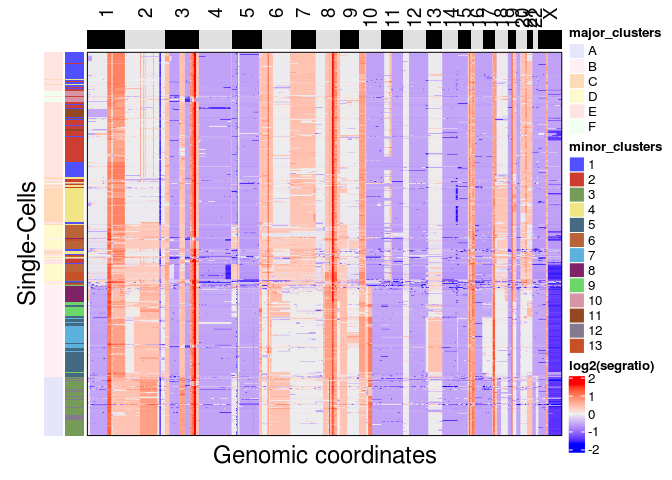
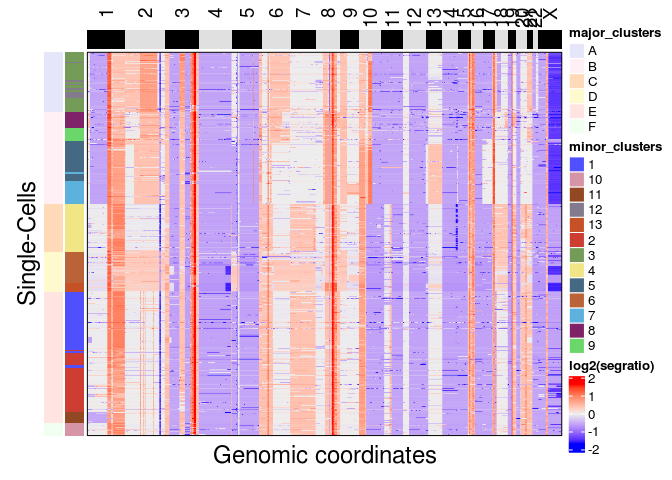
vignette update

Changed region(s): [[0.0625, 0.0938, 0.9062, 0.9062]]

diff --git a/copykit_workflow.md b/copykit_workflow.md
@@ -78,6 +78,7 @@ breast_tumor
     ## colData names(4): sample total_reads reads_kept pcr_duplicates
     ## reducedDimNames(0):
     ## spikeNames(0):
+    ## altExpNames(0):
     ## rowRanges has: 12167 ranges
     ## Phylo:
 
@@ -130,23 +131,47 @@ regarding the data
   - Total reads: Total read counts for each cell.
   - PCR duplicates: Percentage of reads that are PCR duplicates for each
     cell.
+  - Breakpoint count: Counts the number of breakpoints per chromosome
+    and sums it up for every cell.
 
 All the information is stored as metadata and can be accessed with
 `SummarizedExperiment::colData()`.
 
 ``` r
-copykit::runMetrics(breast_tumor)
+breast_tumor <- copykit::runMetrics(breast_tumor)
 ```
 
     ## Calculating RMSE
 
     ## Using 48 cores.
 
+    ## Counting breakpoints.
+
     ## Done.
 
-![](copykit_workflow_files/figure-gfm/unnamed-chunk-2-1.png)<!-- -->
+After the information is calculated and saved in the scCNA object it can
+be visualized with `copykit::plotMetrics()`
 
-You can use the metrics in the metadata to filter the cells if desired.
+``` r
+copykit::plotMetrics(breast_tumor)
+```
+
+![](copykit_workflow_files/figure-gfm/plot_metrics-1.png)<!-- -->
+
+`copykit::plotMetrics()` can color information regarding any column
+available in the metadata.
+
+``` r
+copykit::plotMetrics(breast_tumor,
+                     label = "rmse")
+```
+
+    ## Coloring by: rmse
+
+![](copykit_workflow_files/figure-gfm/plot_metrics_label-1.png)<!-- -->
+
+You can also use the metrics in the metadata to filter the cells if
+desired.
 
 ## Filtering cells.
 
@@ -179,7 +204,7 @@ breast_tumor <- copykit::filterCells(breast_tumor,
     ## Your dataset has: 1442 Cells. Plotting heatmap may take a long time with large number of cells.
     ##  Set number of threads with n_threads for parallel processing if possible to speed up.
 
-    ## Using 20 cores.
+    ## Using 40 cores.
 
     ## Loading required namespace: Cairo
 
@@ -194,7 +219,7 @@ The information is stored as metadata and can be accessed with
 head(SummarizedExperiment::colData(breast_tumor))
 ```
 
-    ## DataFrame with 6 rows and 5 columns
+    ## DataFrame with 6 rows and 8 columns
     ##                                              sample total_reads reads_kept
     ##                                         <character>   <integer>  <integer>
     ## tn20_2_s2_c10_s394_r1_001 tn20_2_s2_c10_s394_r1_001     1182995    1084587
@@ -203,14 +228,22 @@ head(SummarizedExperiment::colData(breast_tumor))
     ## tn20_2_s2_c13_s397_r1_001 tn20_2_s2_c13_s397_r1_001     1470505    1335844
     ## tn20_2_s2_c14_s398_r1_001 tn20_2_s2_c14_s398_r1_001     1297807    1182345
     ## tn20_2_s2_c19_s403_r1_001 tn20_2_s2_c19_s403_r1_001     1066632     978170
-    ##                           pcr_duplicates    filtered
-    ##                                <numeric> <character>
-    ## tn20_2_s2_c10_s394_r1_001           0.08        kept
-    ## tn20_2_s2_c11_s395_r1_001           0.08        kept
-    ## tn20_2_s2_c12_s396_r1_001           0.08     removed
-    ## tn20_2_s2_c13_s397_r1_001           0.09     removed
-    ## tn20_2_s2_c14_s398_r1_001           0.09     removed
-    ## tn20_2_s2_c19_s403_r1_001           0.08        kept
+    ##                           pcr_duplicates              rmse breakpoint_count
+    ##                                <numeric>         <numeric>        <numeric>
+    ## tn20_2_s2_c10_s394_r1_001           0.08 0.216382837301687               62
+    ## tn20_2_s2_c11_s395_r1_001           0.08 0.294904041482104               74
+    ## tn20_2_s2_c12_s396_r1_001           0.08  0.18606060334932               81
+    ## tn20_2_s2_c13_s397_r1_001           0.09  0.15753330535439               56
+    ## tn20_2_s2_c14_s398_r1_001           0.09 0.197584954503024              122
+    ## tn20_2_s2_c19_s403_r1_001           0.08 0.226702781199834               67
+    ##                           filter_corr_value    filtered
+    ##                                   <numeric> <character>
+    ## tn20_2_s2_c10_s394_r1_001  0.98590760631357        kept
+    ## tn20_2_s2_c11_s395_r1_001 0.919570405276702        kept
+    ## tn20_2_s2_c12_s396_r1_001 0.326630273561911     removed
+    ## tn20_2_s2_c13_s397_r1_001 0.274886170136174     removed
+    ## tn20_2_s2_c14_s398_r1_001 0.342528378728546     removed
+    ## tn20_2_s2_c19_s403_r1_001 0.975748454261478        kept
 
 If you are satisfied with the filtering you can simply subset the object
 based on the `SummarizedExperiment::colData(bt)$filtered`
@@ -270,11 +303,48 @@ It is possivel to visualize the results with the function `plotUmap()`.
 plotUmap(breast_tumor)
 ```
 
+    ## Plotting Umap.
+
     ## No cluster information detected, use findClusters() to create it.
+
+![](copykit_workflow_files/figure-gfm/unnamed-chunk-6-1.png)<!-- -->
+
+`plotUmap()` can also be used to display information according to the
+metadata
+
+For example on this sample we have information about different spatial
+locations, they are presented in the sample names with the prefix **S**
+followed by a number. We will use that and add that information to the
+metadata:
+
+First we will add that information to the metadata
+
+``` r
+# saving to a data.frame
+spatial_info <- as.data.frame(SummarizedExperiment::colData(breast_tumor))
+# removing the extra information
+spatial_info$sample_edited <- stringr::str_extract(spatial_info$sample,
+                                                   "tn20_[0-9]_s[0-9]")
+spatial_info$spatial_location <- stringr::str_extract(spatial_info$sample_edited,
+                                                      "(s[0-9])")
+
+SummarizedExperiment::colData(breast_tumor)$spatial_location <- spatial_info$spatial_location
+```
+
+Now we can plot that information using `plotUmap()`
+
+``` r
+plotUmap(breast_tumor, 
+         label = "spatial_location")
+```
+
+    ## Coloring by: spatial_location
 
     ## Plotting Umap.
 
-![](copykit_workflow_files/figure-gfm/unnamed-chunk-7-1.png)<!-- -->
+    ## Warning: Removed 281 rows containing missing values (geom_point).
+
+![](copykit_workflow_files/figure-gfm/plot_umap_label-1.png)<!-- -->
 
 # Finding clusters
 
@@ -306,7 +376,7 @@ Clustering information is stored as metadata and can be accessed with
 head(SummarizedExperiment::colData(breast_tumor))
 ```
 
-    ## DataFrame with 6 rows and 7 columns
+    ## DataFrame with 6 rows and 11 columns
     ##                                              sample total_reads reads_kept
     ##                                         <character>   <integer>  <integer>
     ## tn20_2_s2_c10_s394_r1_001 tn20_2_s2_c10_s394_r1_001     1182995    1084587
@@ -315,22 +385,30 @@ head(SummarizedExperiment::colData(breast_tumor))
     ## tn20_2_s2_c2_s386_r1_001   tn20_2_s2_c2_s386_r1_001     1214093    1101868
     ## tn20_2_s2_c20_s404_r1_001 tn20_2_s2_c20_s404_r1_001      947926     879111
     ## tn20_2_s2_c21_s405_r1_001 tn20_2_s2_c21_s405_r1_001     1095090    1009111
-    ##                           pcr_duplicates    filtered major_clusters
-    ##                                <numeric> <character>    <character>
-    ## tn20_2_s2_c10_s394_r1_001           0.08        kept              A
-    ## tn20_2_s2_c11_s395_r1_001           0.08        kept              A
-    ## tn20_2_s2_c19_s403_r1_001           0.08        kept              A
-    ## tn20_2_s2_c2_s386_r1_001            0.09        kept              B
-    ## tn20_2_s2_c20_s404_r1_001           0.07        kept              B
-    ## tn20_2_s2_c21_s405_r1_001           0.08        kept              A
-    ##                           minor_clusters
-    ##                                <numeric>
-    ## tn20_2_s2_c10_s394_r1_001              3
-    ## tn20_2_s2_c11_s395_r1_001              3
-    ## tn20_2_s2_c19_s403_r1_001             12
-    ## tn20_2_s2_c2_s386_r1_001               8
-    ## tn20_2_s2_c20_s404_r1_001              8
-    ## tn20_2_s2_c21_s405_r1_001              3
+    ##                           pcr_duplicates              rmse breakpoint_count
+    ##                                <numeric>         <numeric>        <numeric>
+    ## tn20_2_s2_c10_s394_r1_001           0.08 0.216382837301687               62
+    ## tn20_2_s2_c11_s395_r1_001           0.08 0.294904041482104               74
+    ## tn20_2_s2_c19_s403_r1_001           0.08 0.226702781199834               67
+    ## tn20_2_s2_c2_s386_r1_001            0.09 0.223616463784378               63
+    ## tn20_2_s2_c20_s404_r1_001           0.07 0.224447682153074               95
+    ## tn20_2_s2_c21_s405_r1_001           0.08 0.208614154086208               62
+    ##                           filter_corr_value    filtered spatial_location
+    ##                                   <numeric> <character>      <character>
+    ## tn20_2_s2_c10_s394_r1_001  0.98590760631357        kept               s2
+    ## tn20_2_s2_c11_s395_r1_001 0.919570405276702        kept               s2
+    ## tn20_2_s2_c19_s403_r1_001 0.975748454261478        kept               s2
+    ## tn20_2_s2_c2_s386_r1_001  0.957232362114731        kept               s2
+    ## tn20_2_s2_c20_s404_r1_001 0.960377831040763        kept               s2
+    ## tn20_2_s2_c21_s405_r1_001 0.970281747303508        kept               s2
+    ##                           major_clusters minor_clusters
+    ##                              <character>      <numeric>
+    ## tn20_2_s2_c10_s394_r1_001              A              3
+    ## tn20_2_s2_c11_s395_r1_001              A              3
+    ## tn20_2_s2_c19_s403_r1_001              A             12
+    ## tn20_2_s2_c2_s386_r1_001               B              8
+    ## tn20_2_s2_c20_s404_r1_001              B              8
+    ## tn20_2_s2_c21_s405_r1_001              A              3
 
 `plotUmap()` will display cluster information if it is available.
 
